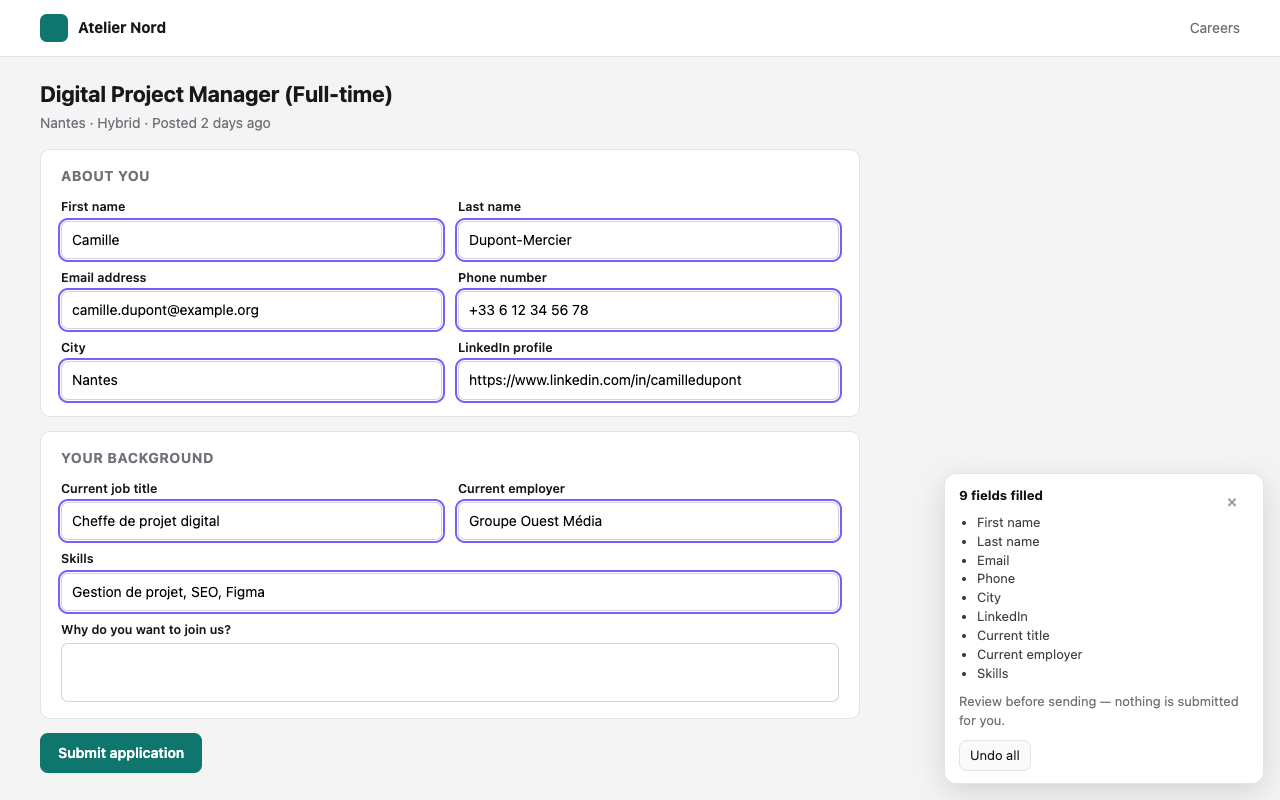
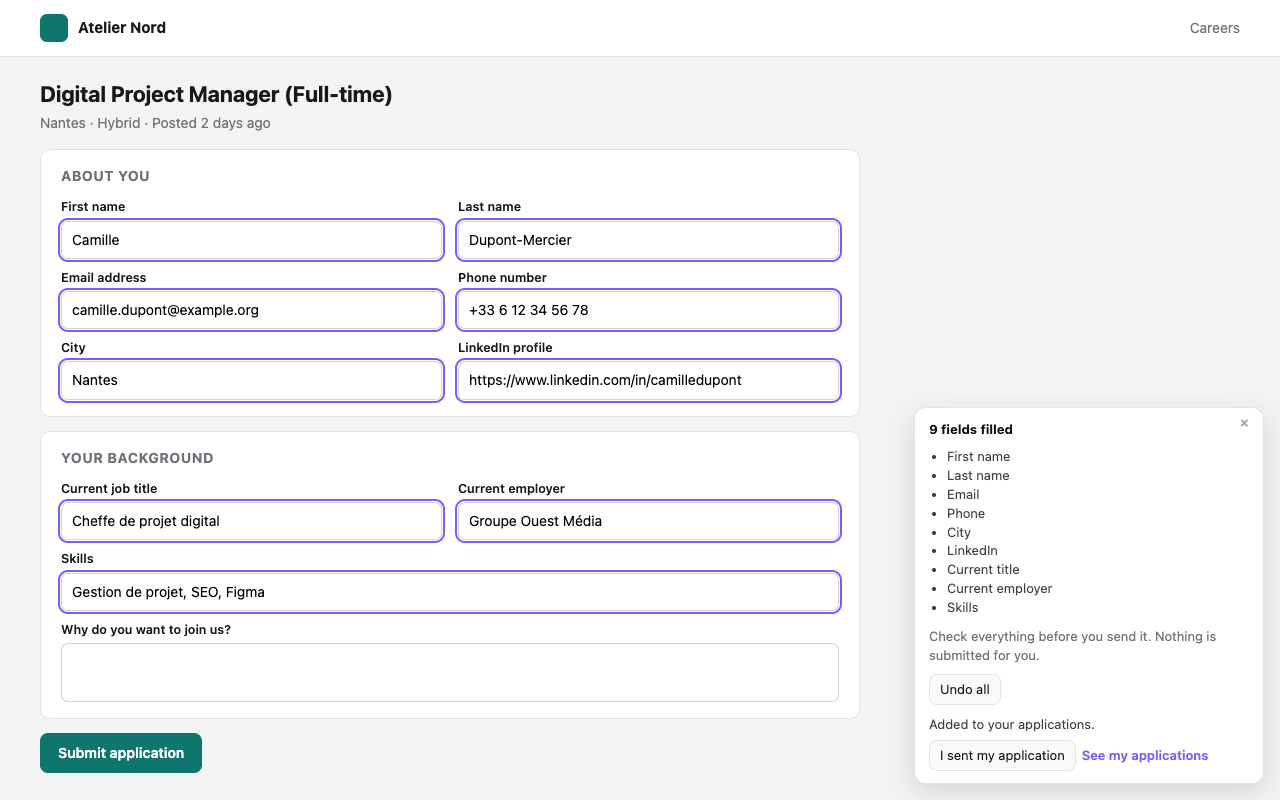
Prepare 0.2.0: privacy policy, listing, changelog, board screenshot
The privacy policy and the store listing now describe the tailored CV, the
CV import, automatic filling per site and the board, and the optional host
access the per-site switch asks for. A third store screenshot shows the
applications board.

Changed region(s): [[0.7188, 0.5312, 0.9688, 0.9688]]

diff --git a/PRIVACY.md b/PRIVACY.md
@@ -1,6 +1,6 @@
 # Epimoni Autofill privacy policy
 
-*Last updated: 27 September 2026. [Version française plus bas.](#fr)*
+*Last updated: 2 October 2026. [Version française plus bas.](#fr)*
 
 Epimoni Autofill is a browser extension that fills job application forms from a CV you keep in
 the extension. This page says what it stores, what it sends, and to whom. It describes the
@@ -15,7 +15,8 @@ The data controller is Epimoni30, Untere Roostmatt 8, CH-6300 Zug, Switzerland
 - Filling a form sends nothing anywhere. Your CV stays in your browser, and the extension
   matches it to the form on your own machine.
 - Something leaves your browser only when you press a button that says so. "Analyse this
-  offer" sends your CV and the job advert to Epimoni's server for a comparison.
+  offer" sends your CV and the job advert to Epimoni's server for a comparison; the cover letter,
+  the CV tailored to a job and the import of an existing CV work the same way.
 - The extension never submits a form, never reads password or payment fields, and does not sell
   or share your data.
 
@@ -26,9 +27,11 @@ devices:
 
 - the CVs you type, import or bring over from epimoni30.com, and which one is active;
 - the suggestions you dismissed, so they are not offered again;
-- the list of applications the extension filled (the page's address, the job title and company
-  when the page shows them, the dates, the status and any note you add), which you can export
-  or delete from the extension's "My applications" page;
+- the list of applications the extension filled, and the ones you add by hand (the page's
+  address, the job title and company when the page shows them or you type them, the dates, the
+  status and any note you add), which you can export or delete from the extension's "My
+  applications" page;
+- the sites where you turned on automatic filling;
 - if you connected an Epimoni account: your name, account id and the sign-in token that lets
   the extension act for that account. The site can only offer to connect; the extension asks
   you on its own page first, showing the account's email address;
@@ -44,10 +47,15 @@ You can also delete a CV, or everything, from the extension's CV page.
 
 ## What is read on the web pages you visit
 
-On the job sites listed in the Chrome Web Store entry, and on any other page only when you click
-the toolbar icon, the extension reads the page's form fields and labels, to know what to put
+On the job sites listed in the Chrome Web Store entry, on the sites where you turned on automatic
+filling, and on any other page only when you click the toolbar icon, the extension reads the
+page's form fields and labels, to know what to put
 where, and the text of the job advert, to offer an analysis. That reading happens in your
 browser. Nothing from the page is sent unless you ask for an analysis.
+
+Automatic filling is off everywhere until you turn it on for a site, from the extension's menu
+on that site. Outside the listed job sites, your browser then asks you to allow the extension on
+that one site, and turning it off hands that access back.
 
 When you fill a form that has a CV upload, the extension puts your CV's PDF in it (the one you
 attached, or the one made from your CV), as if you had picked it yourself. The page can then read
@@ -62,8 +70,13 @@ All requests go to Epimoni's own server (an AWS endpoint in the EU, Frankfurt re
 |---|---|---|
 | You click "Analyse this offer" | your active CV, the text of the advert, a sign-in or session token | to compare the two and show a score |
 | You click "Write my letter with AI" | your active CV, the text of the advert, the form's character limit, a sign-in or session token | to write a cover letter, which is shown to you and goes into the form only if you click to insert it |
+| You click "Tailor my CV with AI" | your CV, the text of the advert, a sign-in token | to propose changes to your CV for that job, which you review; only the ones you keep make a new CV, and your original is not changed |
+| You click "Create the CV with AI" on the extension's CV page | the text of your CV, read from your PDF on your computer or pasted, after you have seen it; a sign-in token | to sort it into the sections of a CV, copied as written. Nothing is stored on the server |
 | You open the extension's menu while connected | your sign-in token | to show your remaining allowance |
 | If you are connected or have run an analysis: when a supported job board shows an application form, after a fill, and when you leave that page | the site's host name; how many form fields the page has and how many were filled, accepted or dismissed; which *kinds* of field were filled (for example "email", "phone") | to find the sites where filling fails |
+
+Reading a PDF to import it, saving a cover letter as a PDF, and the application board all happen
+on your computer and send nothing.
 
 The usage statistics in the last row never contain what you typed, what was filled, field labels
 or page content. Nothing is sent by an install that has never run an analysis or been connected
@@ -85,7 +98,7 @@ your permission in Firefox's add-on settings.
 ## What the extension does not do
 
 - It does not collect browsing history, and it does not run on pages outside the listed job
-  sites unless you click its icon there.
+  sites unless you click its icon there or turned on automatic filling for that site.
 - It does not sell data, show advertising, or pass data to anyone except as described above.
 - It does not use your data for anything unrelated to filling applications and analysing offers,
   in line with the Chrome Web Store User Data Policy, including its Limited Use requirements.
@@ -107,7 +120,7 @@ the extension's changelog.
 
 # Politique de confidentialité d'Epimoni Autofill
 
-*Mise à jour : 25 septembre 2026.*
+*Mise à jour : 2 octobre 2026.*
 
 Epimoni Autofill est une extension de navigateur qui remplit les formulaires de candidature à
 partir d'un CV conservé dans l'extension. Cette page dit ce qu'elle enregistre, ce qu'elle envoie
@@ -122,7 +135,9 @@ Responsable du traitement : Epimoni30, Untere Roostmatt 8, CH-6300 Zoug, Suisse
 - Remplir un formulaire n'envoie rien. Votre CV reste dans votre navigateur, et
   l'association avec le formulaire se fait sur votre machine.
 - Rien ne quitte votre navigateur tant que vous n'appuyez pas sur un bouton qui le dit.
-  « Analyser cette offre » envoie votre CV et l'annonce au serveur d'Epimoni pour les comparer.
+  « Analyser cette offre » envoie votre CV et l'annonce au serveur d'Epimoni pour les comparer ;
+  la lettre de motivation, le CV adapté à une offre et l'import d'un CV existant fonctionnent de
+  la même façon.
 - L'extension n'envoie jamais un formulaire à votre place, ne lit ni mot de passe ni données de
   paiement, et ne vend ni ne partage vos données.
 
@@ -133,9 +148,11 @@ appareils :
 
 - les CV saisis, importés ou récupérés depuis epimoni30.com, et celui qui est actif ;
 - les suggestions que vous avez écartées, pour ne pas les reproposer ;
-- la liste des candidatures remplies par l'extension (l'adresse de la page, l'intitulé du poste
-  et l'entreprise quand la page les affiche, les dates, le statut et vos notes), que vous pouvez
-  exporter ou supprimer depuis la page « Mes candidatures » de l'extension ;
+- la liste des candidatures remplies par l'extension, et de celles que vous ajoutez à la main
+  (l'adresse de la page, l'intitulé du poste et l'entreprise quand la page les affiche ou que
+  vous les saisissez, les dates, le statut et vos notes), que vous pouvez exporter ou supprimer
+  depuis la page « Mes candidatures » de l'extension ;
+- les sites sur lesquels vous avez activé le remplissage automatique ;
 - si vous avez connecté un compte Epimoni : votre nom, l'identifiant du compte et le jeton de
   connexion qui permet à l'extension d'agir pour ce compte. Le site peut seulement proposer la
   connexion ; l'extension vous la fait d'abord confirmer sur sa propre page, en affichant
@@ -152,10 +169,15 @@ pouvez aussi supprimer un CV, ou tout, depuis la page CV de l'extension.
 
 ## Ce qui est lu sur les pages visitées
 
-Sur les sites d'emploi indiqués dans la fiche Chrome Web Store, et sur toute autre page
-uniquement quand vous cliquez sur l'icône, l'extension lit les champs et libellés du
+Sur les sites d'emploi indiqués dans la fiche Chrome Web Store, sur les sites où vous avez activé
+le remplissage automatique, et sur toute autre page uniquement quand vous cliquez sur l'icône, l'extension lit les champs et libellés du
 formulaire, pour savoir quoi mettre où, et le texte de l'annonce, pour proposer une analyse.
 Cette lecture se fait dans votre navigateur. Rien n'est envoyé sans demande d'analyse.
+
+Le remplissage automatique est désactivé partout tant que vous ne l'activez pas pour un site,
+depuis le menu de l'extension sur ce site. Hors des sites d'emploi indiqués, votre navigateur
+vous demande alors d'autoriser l'extension sur ce seul site, et le désactiver lui retire cet
+accès.
 
 Quand vous remplissez un formulaire qui demande un CV, l'extension dépose le PDF de votre CV
 dans le champ (celui que vous avez joint, ou celui créé à partir de votre CV), comme si vous
@@ -172,8 +194,13 @@ Francfort).
 |---|---|---|
 | Vous cliquez « Analyser cette offre » | votre CV actif, le texte de l'annonce, un jeton de connexion ou de session | comparer les deux et afficher un score |
 | Vous cliquez « Rédiger ma lettre avec l'IA » | votre CV actif, le texte de l'annonce, la limite de caractères du formulaire, un jeton de connexion ou de session | rédiger une lettre de motivation, qui vous est montrée et n'entre dans le formulaire que si vous cliquez pour l'insérer |
+| Vous cliquez « Adapter mon CV avec l'IA » | votre CV, le texte de l'annonce, un jeton de connexion | proposer des modifications de votre CV pour ce poste, que vous relisez ; seules celles que vous gardez forment un nouveau CV, et l'original n'est pas modifié |
+| Vous cliquez « Créer le CV avec l'IA » sur la page CV de l'extension | le texte de votre CV, lu dans votre PDF sur votre ordinateur ou collé, après que vous l'avez vu ; un jeton de connexion | le ranger dans les rubriques d'un CV, recopié tel quel. Rien n'est conservé sur le serveur |
 | Vous ouvrez le menu de l'extension en étant connecté | votre jeton de connexion | afficher le quota restant |
 | Si vous êtes connecté ou avez lancé une analyse : quand un site d'emploi pris en charge affiche un formulaire de candidature, après un remplissage, et quand vous quittez cette page | le nom du site ; le nombre de champs du formulaire, et combien ont été remplis, acceptés ou écartés ; les *types* de champs remplis (par exemple « e-mail », « téléphone ») | repérer les sites où le remplissage échoue |
+
+La lecture d'un PDF à importer, l'enregistrement d'une lettre en PDF et le tableau des
+candidatures se font sur votre ordinateur et n'envoient rien.
 
 Ces statistiques ne contiennent jamais ce que vous avez saisi, ce qui a été rempli, les libellés
 ni le contenu des pages. Une installation qui n'a jamais lancé d'analyse ni été connectée à un
@@ -196,7 +223,8 @@ réglages des modules de Firefox.
 ## Ce que l'extension ne fait pas
 
 - Elle ne collecte pas l'historique de navigation et ne s'exécute pas hors des sites d'emploi
-  indiqués, sauf si vous cliquez sur son icône.
+  indiqués, sauf si vous cliquez sur son icône ou avez activé le remplissage automatique sur ce
+  site.
 - Elle ne vend pas de données, n'affiche pas de publicité et ne transmet rien à quiconque hors
   des cas décrits ci-dessus.
 - Elle n'utilise vos données que pour remplir des candidatures et analyser des offres,

diff --git a/store/listing.md b/store/listing.md
@@ -36,8 +36,8 @@ téléphone, poste actuel, expériences, formations, langues, etc.) et les rempl
 Vous relisez, vous corrigez, vous envoyez : l'extension ne soumet jamais rien à votre place.
 
 VOTRE CV, UNE FOIS
-• Saisissez-le dans l'extension, importez un fichier JSON Résumé, ou récupérez celui de votre
-  compte Epimoni.
+• Saisissez-le dans l'extension, importez votre CV en PDF (lu sur votre ordinateur), un fichier
+  JSON Résumé, ou récupérez celui de votre compte Epimoni.
 • Gardez plusieurs versions (CV court, CV détaillé) et choisissez celle qui remplit.
 • Exportez-le à tout moment au format JSON Résumé, lisible par d'autres outils.
 
@@ -49,17 +49,25 @@ UN REMPLISSAGE PRUDENT
 
 OÙ ÇA MARCHE
 France Travail, HelloWork, APEC, Welcome to the Jungle, Indeed et LinkedIn. Sur n'importe quel
-autre site carrière (Workday, Taleez, formulaires maison), il suffit de cliquer sur l'icône.
+autre site carrière (Workday, Taleez, formulaires maison), il suffit de cliquer sur l'icône, ou
+d'activer le remplissage automatique pour ce site.
 
-ANALYSE D'OFFRE PAR L'IA
+VOS CANDIDATURES EN UN COUP D'ŒIL
+Chaque formulaire rempli rejoint un tableau par colonnes (remplie, envoyée, entretien, offre,
+refusée). Glissez une carte quand ça avance, ajoutez une candidature faite ailleurs, exportez en
+CSV.
+
+L'IA POUR CHAQUE OFFRE
 Sur une annonce, « Analyser cette offre » compare votre CV aux attentes du poste et donne un
-score avec vos points faibles, et la lettre de motivation peut être rédigée dans la limite du
-formulaire. Ces fonctions IA demandent un compte Epimoni connecté à l'extension (gratuit : une
-par heure ; illimité avec une formule), et l'analyse complète s'ouvre sur epimoni30.com.
+score avec vos points faibles. La lettre de motivation est rédigée dans la limite du formulaire
+et s'enregistre en PDF. Votre CV peut être adapté à l'offre : vous gardez les modifications qui
+sont vraies pour vous, et le CV adapté remplit le formulaire avec son PDF. Ces fonctions IA
+demandent un compte Epimoni connecté à l'extension (gratuit : une par heure ; illimité avec une
+formule).
 
 VIE PRIVÉE
-Votre CV reste dans votre navigateur. Le remplissage n'envoie rien. Seule l'analyse d'offre,
-lancée par vous, transmet le CV et l'annonce aux serveurs d'Epimoni.
+Votre CV reste dans votre navigateur. Le remplissage n'envoie rien. Seules les fonctions IA,
+lancées par vous, transmettent le CV et l'annonce aux serveurs d'Epimoni.
 
 Code source ouvert, sous licence Apache 2.0.
 ```
@@ -74,8 +82,8 @@ current role, work history, education, languages and so on) and fills them from 
 correct and send: the extension never submits anything for you.
 
 YOUR CV, ONCE
-• Type it into the extension, import a JSON Résumé file, or bring the one from your Epimoni
-  account.
+• Type it into the extension, import your CV as a PDF (read on your computer), a JSON Résumé
+  file, or bring the one from your Epimoni account.
 • Keep several versions (short CV, detailed CV) and choose which one fills.
 • Export it any time as JSON Résumé, readable by other tools.
 
@@ -87,17 +95,23 @@ CAREFUL FILLING
 
 WHERE IT WORKS
 France Travail, HelloWork, APEC, Welcome to the Jungle, Indeed and LinkedIn. On any other
-careers site (Workday, Taleez, in-house forms), just click the toolbar icon.
+careers site (Workday, Taleez, in-house forms), just click the toolbar icon, or turn on
+automatic filling for that site.
 
-AI OFFER ANALYSIS
+YOUR APPLICATIONS AT A GLANCE
+Every form filled joins a board with a column per status (filled, sent, interview, offer,
+rejected). Drag a card as things move, add an application made elsewhere, export to CSV.
+
+AI FOR EVERY JOB AD
 On a job ad, "Analyse this offer" compares your CV with what the role asks for and gives a
-score with your weak points, and the cover letter can be written within the form's limit. These
-AI features need an Epimoni account connected to the extension (free: one an hour; unlimited
-with a plan), and the full analysis opens on epimoni30.com.
+score with your weak points. The cover letter is written within the form's limit and saves as a
+PDF. Your CV can be tailored to the ad: you keep the changes that are true for you, and the
+tailored CV fills the form with its own PDF. These AI features need an Epimoni account connected
+to the extension (free: one an hour; unlimited with a plan).
 
 PRIVACY
-Your CV stays in your browser. Filling sends nothing. Only the offer analysis, started by you,
-sends your CV and the ad to Epimoni's servers.
+Your CV stays in your browser. Filling sends nothing. Only the AI features, started by you,
+send your CV and the ad to Epimoni's servers.
 
 Open source, Apache 2.0 licence.
 ```
@@ -106,8 +120,9 @@ Open source, Apache 2.0 licence.
 
 ### Single purpose
 
-> Fill job application forms from the user's own CV, and, on request, compare that CV with the
-> job advert on the page.
+> Help the user apply for jobs: fill application forms from their own CV, keep track of the
+> applications, and, on request, prepare the documents for the job advert on the page
+> (comparison with the CV, cover letter, CV tailored to the advert).
 
 ### Permission justifications
 
@@ -117,11 +132,11 @@ Open source, Apache 2.0 licence.
 | `scripting` | Injects the form-filling script into the active tab when the user clicks the icon, on sites where it is not declared as a content script. |
 | `storage` | Keeps the user's CVs and settings on their own computer (`storage.local`, never synced), and a per-session cache so an analysis is not paid for twice. |
 | Host: epimoni30.com | Lets the user bring their CV over from their Epimoni account (`externally_connectable`, origin checked). The site can only ask; the user confirms on an extension page. |
-| Host: the API endpoint (`*.lambda-url.eu-central-1.on.aws`) | The offer analysis the user requests is computed on Epimoni's server. |
+| Host: the API endpoint (`*.lambda-url.eu-central-1.on.aws`) | The AI features the user requests (offer analysis, cover letter, tailored CV, sorting an imported CV's text into sections) are computed on Epimoni's server. |
 | Optional host access (`https://*/*`, `http://*/*`), one site at a time | Never asked at install. When the user ticks "Fill automatically on <site>" in the popup, the browser asks for that one site only, and the form-filling script then runs there on page load so an application form is filled as it appears. Turned off from the panel, the popup or the dashboard, the site's access is handed back. |
 | Content scripts on France Travail, HelloWork, APEC, Welcome to the Jungle, Indeed, LinkedIn Jobs | These job boards host the application forms the extension fills and the adverts it can analyse. The script reads forms locally and sends nothing on its own. |
 
-- Remote code: no. All code is in the package; the server returns data (scores), never code.
+- Remote code: no. All code is in the package; the server returns data (scores, text), never code.
 
 ### Data usage
 
@@ -129,7 +144,8 @@ Tick:
 
 - Personally identifiable information: name, email, phone, address from the user's CV.
 - Authentication information: the Epimoni sign-in token, when the user connects an account.
-- Website content: the job advert text, sent only when the user requests an analysis.
+- Website content: the job advert text, sent only when the user requests an analysis, a cover
+  letter or a tailored CV.
 - User activity: per-site counts of fields filled, accepted and dismissed. No keystrokes,
   values or page content, but they are counts of clicks, and declaring more than the strict
   reading requires is the side to err on.

diff --git a/CHANGELOG.md b/CHANGELOG.md
@@ -9,6 +9,30 @@ carries the same number, and the release workflow refuses a tag that does not ma
 
 ## [Unreleased]
 
+## [0.2.0] - 2026-10-02
+
+### Added
+
+- The applications are a board, one column per status. Drag a card to move it (the status menu
+  on each card does the same from a keyboard or a touch screen), and add an application the
+  extension did not fill, with or without a link.
+- Automatic filling, one site at a time. Ticked in the menu on a site, an application form
+  there is filled as it appears, including one a site shows only after "Apply". Off by default;
+  outside the supported job boards your browser asks for that one site, and turning it off gives
+  the access back. The sites are listed on the dashboard.
+- The cover letter is offered on any page with a job ad, not only on forms with a letter box,
+  and saves as a PDF laid out as a letter.
+- "Tailor my CV to this job" (AI, connected account): the proposed changes are listed to review,
+  and a change that adds something your CV did not say is left unticked. The ones you keep make
+  a new CV beside the original, which fills the form with its own PDF.
+- "Import my existing CV": your PDF is read on your computer (including PDFs "protected" with
+  no password, as some CV builders make them), you check the text, and Epimoni's AI sorts it
+  into sections without rewriting it (connected account). The PDF stays the file sent to forms.
+
+### Changed
+
+- The in-page panel scrolls when it is taller than the window.
+
 ## [0.1.0] - 2026-09-28
 
 First public version.
